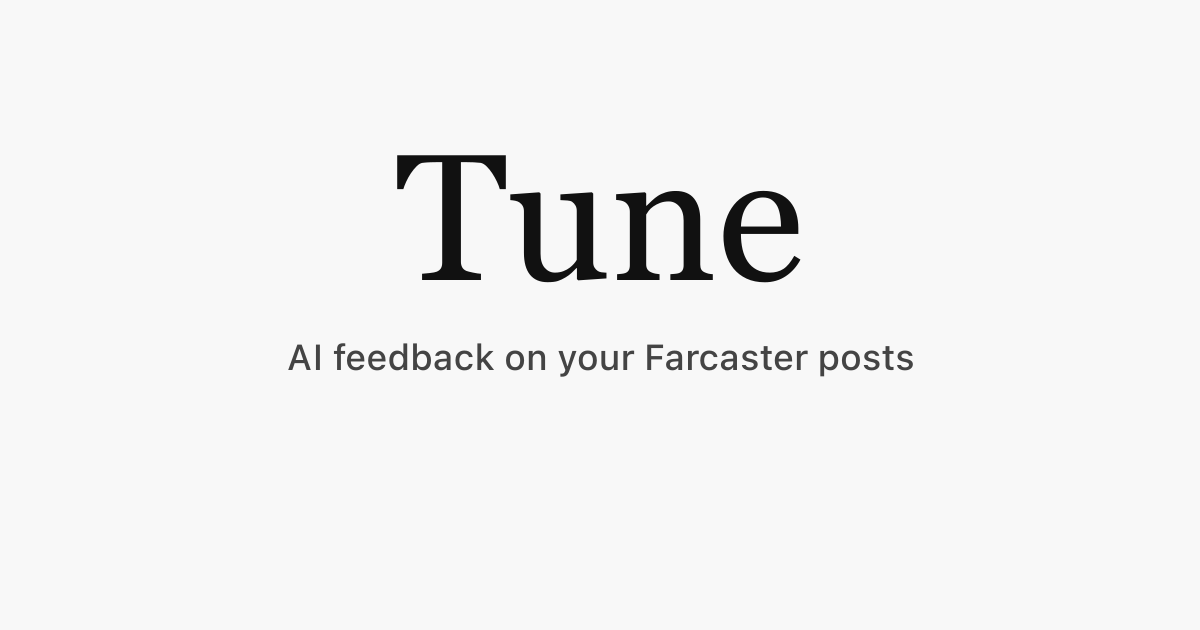
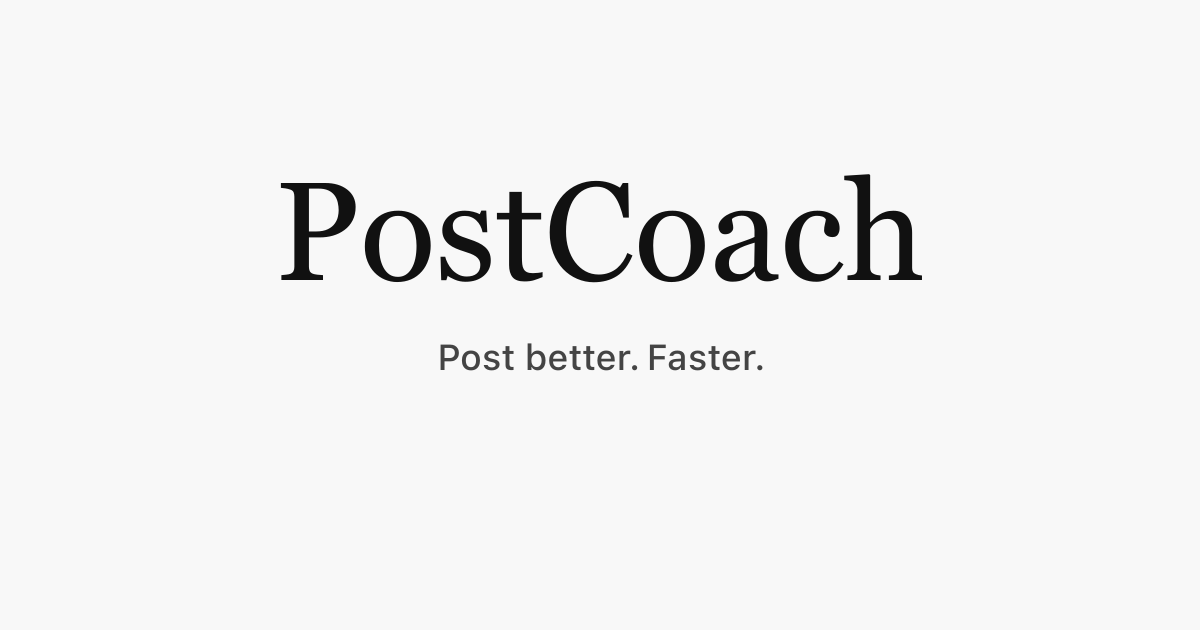
Rename to PostCoach, fix subtitle length
- Rename app from Tune to PostCoach
- Shorten subtitle to "Post better. Faster." (≤30 chars)
- Update og-image with new branding
- Fix Farcaster manifest validation error

🤖 Generated with [Claude Code](https://claude.com/claude-code)

Changed region(s): [[0.2158, 0.2413, 0.7708, 0.4524], [0.2467, 0.5429, 0.7708, 0.6032]]

diff --git a/src/app/page.tsx b/src/app/page.tsx
@@ -115,22 +115,25 @@ export default function Home() {
     return (
       <div className="min-h-screen flex items-center justify-center p-4">
         <div className="text-center max-w-md">
-          <div className="w-16 h-16 rounded-full bg-stone-100 flex items-center justify-center mx-auto mb-6">
-            <svg className="w-8 h-8 text-[#1a1f2e]" fill="none" viewBox="0 0 24 24" stroke="currentColor">
-              <path strokeLinecap="round" strokeLinejoin="round" strokeWidth={2} d="M12 18h.01M8 21h8a2 2 0 002-2V5a2 2 0 00-2-2H8a2 2 0 00-2 2v14a2 2 0 002 2z" />
-            </svg>
+          <div className="w-20 h-20 rounded-[2rem] bg-white shadow-xl flex items-center justify-center mx-auto mb-8 border border-stone-100 overflow-hidden">
+             <img 
+               src="/logos/farcaster/farcaster.png" 
+               alt="Farcaster" 
+               className="w-12 h-12"
+             />
           </div>
-          <h1 className="text-2xl font-black text-[#1a1f2e] mb-4 tracking-tight serif-heading italic">
-            Tune
+          <h1 className="text-3xl font-black text-[#1a1f2e] mb-4 tracking-tighter serif-heading italic">
+            PostCoach
           </h1>
-          <p className="text-stone-500 mb-6 font-medium">
-            Open this app in a Farcaster client to get AI-powered feedback on your posts.
+          <p className="text-stone-500 mb-8 font-medium leading-relaxed">
+            AI-powered coaching for Farcaster creators.
           </p>
           <a
             href="https://farcaster.xyz"
-            className="inline-flex items-center justify-center px-6 py-3 bg-[#1a1f2e] text-white font-bold uppercase tracking-widest text-xs rounded-lg hover:bg-[#2d364d] transition-colors shadow-lg shadow-indigo-500/20"
+            className="inline-flex items-center justify-center gap-3 px-8 py-4 bg-[#1a1f2e] text-white font-bold uppercase tracking-widest text-[11px] rounded-2xl hover:bg-[#2d364d] transition-all shadow-xl shadow-indigo-500/10 active:scale-[0.98]"
           >
-            Get Farcaster
+            <img src="/logos/farcaster/farcaster.png" className="w-4 h-4 invert" alt="" />
+            Sign in with Farcaster
           </a>
         </div>
       </div>
@@ -150,11 +153,13 @@ export default function Home() {
   if (state === 'analyzing') {
     return (
       <div className="min-h-screen flex flex-col items-center justify-center p-4">
-        <div className="mb-8">
-          <div className="w-16 h-16 rounded-full bg-stone-100 flex items-center justify-center animate-pulse">
-            <svg className="w-8 h-8 text-[#1a1f2e]" fill="none" viewBox="0 0 24 24" stroke="currentColor">
-              <path strokeLinecap="round" strokeLinejoin="round" strokeWidth={2} d="M9 19v-6a2 2 0 00-2-2H5a2 2 0 00-2 2v6a2 2 0 002 2h2a2 2 0 002-2zm0 0V9a2 2 0 012-2h2a2 2 0 012 2v10m-6 0a2 2 0 002 2h2a2 2 0 002-2m0 0V5a2 2 0 012-2h2a2 2 0 012 2v14a2 2 0 01-2 2h-2a2 2 0 01-2-2z" />
-            </svg>
+        <div className="mb-10">
+          <div className="w-20 h-20 rounded-[2rem] bg-white shadow-xl flex items-center justify-center animate-pulse border border-stone-100 overflow-hidden">
+             <img 
+               src="/logos/farcaster/farcaster.png" 
+               alt="Farcaster" 
+               className="w-12 h-12"
+             />
           </div>
         </div>
         <h2 className="text-xl font-black text-[#1a1f2e] mb-2 serif-heading italic">

diff --git a/scripts/generate-icons.js b/scripts/generate-icons.js
@@ -21,8 +21,8 @@ const splashSvg = `
 const ogImageSvg = `
 <svg width="1200" height="630" viewBox="0 0 1200 630" xmlns="http://www.w3.org/2000/svg">
   <rect width="1200" height="630" fill="#f8f8f8"/>
-  <text x="600" y="280" text-anchor="middle" font-family="Georgia, 'Times New Roman', serif" font-size="180" font-weight="400" fill="#111111">Tune</text>
-  <text x="600" y="370" text-anchor="middle" font-family="system-ui, -apple-system, sans-serif" font-size="36" font-weight="500" letter-spacing="0.05em" fill="#444444">AI feedback on your Farcaster posts</text>
+  <text x="600" y="280" text-anchor="middle" font-family="Georgia, 'Times New Roman', serif" font-size="140" font-weight="400" fill="#111111">PostCoach</text>
+  <text x="600" y="370" text-anchor="middle" font-family="system-ui, -apple-system, sans-serif" font-size="36" font-weight="500" letter-spacing="0.05em" fill="#444444">Post better. Faster.</text>
 </svg>
 `;
 

diff --git a/src/components/brief/WeeklyBrief.tsx b/src/components/brief/WeeklyBrief.tsx
@@ -16,7 +16,7 @@ export function WeeklyBrief({ brief, username, onShareImage }: WeeklyBriefProps)
   const [activeTab, setActiveTab] = useState<'win' | 'weakness' | 'experiment'>('experiment');
 
   const copyToClipboard = useCallback(() => {
-    const text = `My Tune Brief: ${brief.experiment.title}\n\nTry: \"${brief.experiment.templateCast}\"`;
+    const text = `My PostCoach Brief: ${brief.experiment.title}\n\nTry: \"${brief.experiment.templateCast}\"`;
     navigator.clipboard.writeText(text).then(() => setToast('Brief copied!'));
   }, [brief]);
 

diff --git a/src/app/layout.tsx b/src/app/layout.tsx
@@ -13,7 +13,7 @@ const geistMono = Geist_Mono({
 });
 
 export const metadata: Metadata = {
-  title: "Tune - Farcaster Coach",
+  title: "PostCoach - AI Feedback on Your Casts",
   description: "AI-powered feedback on your Farcaster posts",
 };
 

diff --git a/src/types/index.ts b/src/types/index.ts
@@ -1,4 +1,4 @@
-// Core Types for Tune - Farcaster Influence Coach
+// Core Types for PostCoach - AI Feedback on Your Casts
 
 // ============= Farcaster Data Types =============
 
